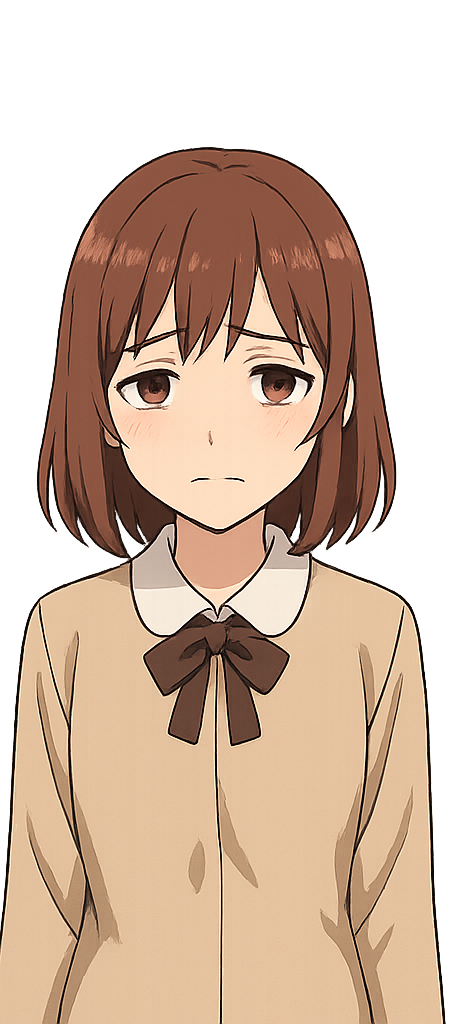
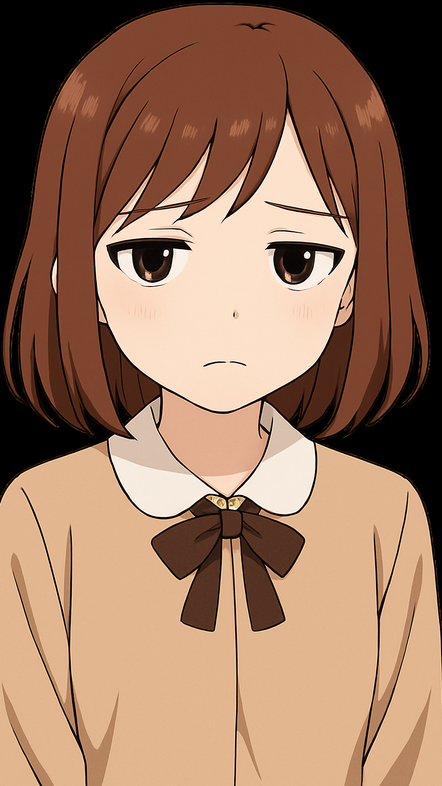
Add files via upload

diff --git a/styles.css b/styles.css
@@ -1,135 +1,134 @@
+/* ==================================================================
+   styles.css
+   ================================================================== */
+
 :root{
-  --bg:#0f1115; --panel:#171a21; --panel2:#1d212a; --text:#e8eef8; --muted:#a7b0c2;
-  --accent:#7aa2ff; --accent2:#ffd166; --good:#6ee7b7; --bad:#f87171;
+  /* 色と寸法 */
+  --bg:#0f1115;
+  --panel:#171a21;
+  --panel2:#1d212a;
+  --text:#e8eef8;
+  --muted:#a7b0c2;
+  --accent:#7aa2ff;
+  --good:#6ee7b7;
+  --bad:#f87171;
+
+  /* 画像（縦横比 442:786 ≒ 0.562）をさらに小さく */
+  --portrait-w: 260px;
+  --portrait-h: 464px; /* 260 / 0.56 ≒ 464 */
+
+  /* 左カラムの 3x3 ボタンの1段あたりの高さ（“縦は低め”のキモ） */
+  --left-btn-h: 52px;
+
+  /* ヘッダ/フッタ高さ（レイアウト計算用） */
+  --topbar-h: 56px;
+  --footer-h: 28px;
+
+  --bubble-enter-ms: 160ms;
+  --bubble-ease: cubic-bezier(.2,.85,.35,1);
 }
-*{box-sizing:border-box}
-html,body{height:100%}
+
+*{ box-sizing:border-box; }
+html,body{ height:100%; }
 body{
-  margin:0; font-family:system-ui, -apple-system, "Segoe UI", Meiryo, sans-serif;
-  color:var(--text); background:linear-gradient(180deg,#0e1016 0%,#0b0d12 100%);
+  margin:0;
+  color:var(--text);
+  background:linear-gradient(180deg,#0e1016 0%,#0b0d12 100%);
+  overflow:hidden; /* ← ページ自体はスクロールしない */
+  font-family:system-ui,-apple-system,"Segoe UI",Meiryo,"Hiragino Kaku Gothic ProN","Noto Sans JP",sans-serif;
 }
+
+/* ヘッダ/フッタ */
 .topbar{
   display:flex; align-items:center; justify-content:space-between;
-  padding:10px 16px; background:var(--panel); border-bottom:1px solid #222835;
+  height:var(--topbar-h); padding:6px 12px;
+  background:var(--panel); border-bottom:1px solid #222835;
 }
-.brand{font-weight:700; letter-spacing:0.5px}
-.status{display:flex; gap:24px; align-items:center}
+.brand{font-weight:700; letter-spacing:.5px}
+.status{display:flex; gap:14px; align-items:center}
 .meter label{font-size:12px; color:var(--muted)}
-.meter .bar{width:240px; height:8px; background:#202633; border-radius:999px; overflow:hidden; margin:4px 0}
+.meter .bar{width:180px; height:8px; background:#202633; border-radius:999px; overflow:hidden; margin:4px 0}
 #affectionBar{height:100%; width:0%; background:linear-gradient(90deg,#5ad1ff,#7aa2ff); transition:width .2s}
 .tier{color:var(--muted)}
-.tension label{font-size:12px; color:var(--muted)}
-.badge{padding:4px 10px; border-radius:999px; font-weight:700;}
+.badge{padding:2px 8px; border-radius:999px; font-weight:700;}
 .badge-low{background:#2a1d2b; color:#ff79a1}
 .badge-mid{background:#1c2430; color:#7aa2ff}
 .badge-high{background:#1c2a22; color:#5ae0a2}
 
-.layout{
-  display:grid; grid-template-columns: 360px 1fr; gap:16px; padding:16px;
+.foot{
+  display:flex; align-items:center; justify-content:center;
+  height:var(--footer-h); padding:0 12px; color:var(--muted);
 }
+
+/* 2カラム: 左(画像+3x3), 右(ログ) — 1画面に収める */
+.layout{
+  display:grid;
+  grid-template-columns:max-content 1fr;
+  gap:14px;
+  padding:12px;
+  height:calc(100vh - var(--topbar-h) - var(--footer-h));
+  min-height:0;
+}
+
+/* 左カラム */
 .portrait{
   background:var(--panel); border:1px solid #222835; border-radius:14px;
-  display:flex; align-items:center; justify-content:center; padding:12px;
+  padding:10px; display:flex; flex-direction:column; align-items:center; gap:8px;
+  height:100%; /* ← 右と同じく縦いっぱいを割り当てる */
+  min-height:0;
 }
-.portrait img{max-width:100%; border-radius:10px; box-shadow:0 12px 40px rgba(0,0,0,.35)}
+.portrait-frame{
+  /* 画像は「最大でも固定サイズ」、残りが足りなければ縮む */
+  width:var(--portrait-w);
+  height:var(--portrait-h);
+  max-height:calc(100% - (var(--left-btn-h) * 3 + 12px) - 8px - 2px - 20px);
+  /*          ↑ボタン3段の高さ  ↑行間  ↑画像とボタンの間隔  ↑枠線  ↑上下padding  */
+  display:flex; align-items:center; justify-content:center; position:relative;
+  border-radius:10px; overflow:hidden;
+}
+.portrait img{
+  width:100%; height:100%;
+  object-fit: contain;   /* ← cover から contain に */
+  background:#0003;      /* 余白が出るときの台色（お好みで） */
+  border-radius:10px; box-shadow:0 12px 40px rgba(0,0,0,.35);
+}
+.size-badge{
+  position:absolute; top:6px; left:6px; padding:2px 8px; font-size:12px; line-height:1.6;
+  color:#e8eef8; background:rgba(0,0,0,.55); border:1px solid #333a; border-radius:999px; pointer-events:none;
+}
 
-.ui{display:flex; flex-direction:column; gap:16px}
-.buttons{
-  display:grid; grid-template-columns:repeat(3,1fr); gap:10px;
+/* 3x3 ボタン（確実に grid にするため !important を付与） */
+.portrait .left-buttons{
+  width:var(--portrait-w);
+  display:grid !important;
+  grid-template-columns:repeat(3, minmax(0,1fr)) !important;
+  grid-auto-rows:var(--left-btn-h);
+  gap:6px;
 }
-.buttons button{
-  padding:14px 10px; border-radius:12px; border:1px solid #23293a;
+.portrait .left-buttons button{
+  padding:6px; border-radius:10px; border:1px solid #23293a;
   background:var(--panel2); color:var(--text); cursor:pointer; font-weight:700;
+  display:flex; align-items:center; justify-content:center; flex-direction:column;
   transition:transform .06s ease, box-shadow .06s ease, background .2s;
 }
-.buttons button:hover{transform:translateY(-1px); box-shadow:0 8px 20px rgba(0,0,0,.25)}
-.buttons button:active{transform:translateY(0)}
+.portrait .left-buttons button:hover{ transform:translateY(-1px); box-shadow:0 8px 20px rgba(0,0,0,.25) }
+.portrait .left-buttons .emoji{ font-size:18px; line-height:1 }
+.portrait .left-buttons .label{ font-size:11px; opacity:.95 }
+
+/* 右カラム（会話ログを縦いっぱい、内部スクロール） */
+.ui{ display:flex; flex-direction:column; height:100%; min-height:0; }
 .dialog{
-  background:var(--panel); border:1px solid #222835; border-radius:14px; padding:12px;
+  background:var(--panel); border:1px solid #222835; border-radius:14px;
+  padding:10px; display:flex; flex-direction:column; gap:8px;
+  flex:1 1 auto; min-height:0;
 }
 .log{
-  height:260px; overflow:auto; padding:8px; background:#0f141c; border-radius:8px; border:1px solid #202636;
-}
-.bubble{padding:8px 10px; margin:8px 0; border-radius:10px; width:max-content; max-width:100%}
-.user{background:#192538; border:1px solid #233650}
-.npc{background:#1a2a1f; border:1px solid #25422e}
-.system{background:#2a2333; border:1px solid #3b2f4b}
-.meta{color:var(--muted); font-size:12px}
-.inputRow{display:flex; justify-content:flex-end; margin-top:8px; gap:8px}
-button.secondary{background:#11161f; border-color:#2a3448; color:#cfd7e7}
-button.danger{background:#2a1616; border-color:#4c2626; color:#ffb4b4}
-
-.debug{background:var(--panel); border:1px solid #222835; border-radius:14px; padding:10px}
-.debug-grid{display:grid; grid-template-columns:repeat(3,1fr); gap:10px}
-.debug .row{display:flex; gap:6px; align-items:center}
-.debug input{width:80px; padding:6px 8px; border-radius:8px; border:1px solid #30384a; background:#0e1420; color:#e8eef8}
-.footer, .foot{padding:8px 16px; color:var(--muted); text-align:center}
-/* 絵文字ボタン */
-.buttons button.iconbtn{
-  display:flex; flex-direction:column; align-items:center; justify-content:center;
-  gap:6px; padding-block:18px; font-weight:700; text-align:center;
-}
-.buttons .emoji{ font-size:28px; line-height:1; }
-.buttons .label{ font-size:14px; opacity:.95; }
-
-/* 画面幅広めなら少し大きく */
-@media (min-width: 720px){
-  .buttons .emoji{ font-size:34px; }
+  flex:1 1 auto; min-height:0; overflow:auto;
+  padding:8px; background:#0f141c; border-radius:8px; border:1px solid #202636;
 }
 
-/* （任意）テキストを隠して絵文字だけにしたい時 */
-.icon-only .buttons .label{ display:none; }
-
-/* ===== Compact Mode (1024x768想定) ===== */
-body.compact { /* 画面が広くても詰めて表示 */
-  max-width: 1024px;
-  margin: 0 auto;
-}
-
-body.compact .topbar{
-  padding:6px 12px;
-}
-body.compact .status{ gap:16px }
-body.compact .meter .bar{ width:180px; height:6px }
-body.compact .badge{ padding:2px 8px; font-size:12px }
-
-body.compact .layout{
-  grid-template-columns: 280px 1fr;
-  gap:12px;
-  padding:12px;
-}
-body.compact .portrait{ padding:8px; border-radius:10px }
-body.compact .portrait img{ border-radius:8px }
-
-body.compact .buttons{
-  gap:8px;
-  grid-template-columns: repeat(3, 1fr);
-}
-body.compact .buttons button{
-  padding:10px 8px;
-  border-radius:10px;
-}
-body.compact .buttons .emoji{ font-size:22px }
-body.compact .buttons .label{ font-size:12px }
-
-body.compact .dialog{ padding:10px; border-radius:10px }
-body.compact .log{
-  height:170px;            /* 260→170に圧縮 */
-  padding:6px;
-}
-body.compact .bubble{ padding:6px 8px; margin:6px 0 }
-body.compact .meta{ font-size:11px }
-
-body.compact .debug{ padding:8px; border-radius:10px }
-body.compact .debug-grid{ gap:8px }
-body.compact .debug input{ width:70px; padding:4px 6px }
-/* 考え中バブルは少し薄く */
-.bubble.thinking{ opacity:.8; font-style:italic }
-
-/* ===== 選択肢 ===== */
-.choices{
-  display:grid; grid-template-columns:1fr 1fr; gap:8px; margin-top:8px;
-}
+/* 選択肢 */
+.choices{ display:grid; grid-template-columns:repeat(2,1fr); gap:8px }
 .choices button{
   padding:10px; border-radius:10px; border:1px solid #233650;
   background:#192538; color:#e8eef8; cursor:pointer; font-weight:700;
@@ -137,5 +136,61 @@ body.compact .debug input{ width:70px; padding:4px 6px }
 }
 .choices button:hover{ transform:translateY(-1px); box-shadow:0 8px 20px rgba(0,0,0,.25) }
 
-/* Compact調整 */
-body.compact .choices button{ padding:8px; font-size:14px }
+/* 吹き出し */
+.bubble{
+  padding:8px 10px; margin:8px 0; border-radius:10px;
+  width:max-content; max-width:100%;
+  /* ふわっと */
+  opacity: 1; /* ← thinkingと分けるため初期値は1にしておく */
+}
+.bubble:not(.thinking){
+  opacity: 0;
+  transform: translateY(6px) scale(.98);
+  animation: bubbleIn var(--bubble-enter-ms) var(--bubble-ease) forwards;
+  will-change: transform, opacity;
+  box-shadow: 0 6px 18px rgba(0,0,0,.22);
+}
+.user{ background:#192538; border:1px solid #233650 }
+.npc{ background:#1a2a1f; border:1px solid #25422e }
+.system{ background:#2a2333; border:1px solid #3b2f4b }
+.meta{
+  color:var(--muted);
+  font-size:12px;
+  margin-top:-6px;
+  opacity:.85;
+  animation: metaIn 180ms var(--bubble-ease) both;
+}
+.bubble.thinking{
+  opacity:.85;
+  font-style:italic;
+  animation: none;
+}
+
+/* 汎用ボタン */
+button{ font:inherit }
+button.secondary{ background:#11161f; border:1px solid #2a3448; color:#cfd7e7; padding:8px 10px; border-radius:10px; cursor:pointer }
+button.danger{ background:#2a1616; border:1px solid #4c2626; color:#ffb4b4; padding:8px 10px; border-radius:10px; cursor:pointer }
+button.secondary:hover, button.danger:hover{ filter:brightness(1.08) }
+
+/* バブルアニメーション */
+@keyframes bubbleIn {
+  from { opacity: 0; transform: translateY(6px) scale(.98); }
+  to   { opacity: 1; transform: translateY(0)   scale(1);   }
+}
+@keyframes metaIn {
+  from { opacity: 0; transform: translateY(2px); }
+  to   { opacity: .85; transform: none; }
+}
+
+/* 会話中（busy）のカテゴリボタン見た目 */
+.left-buttons button:disabled{
+  opacity: .45;
+  filter: grayscale(25%);
+  cursor: not-allowed;
+  transform: none !important;
+  box-shadow: none !important;
+}
+.left-buttons button:disabled .emoji,
+.left-buttons button:disabled .label{
+  opacity: .85;
+}

diff --git a/js/main.js b/js/main.js
@@ -348,6 +348,7 @@ function getPool(typeKey) {
 async function handleTalk(typeKey, label){
   if (state.busy) return;
   state.busy = true;
+  setCategoryButtonsEnabled(false);
   try{
     if (CLEAR_LOG_ON_NEW) $("#log").innerHTML = "";
 
@@ -375,6 +376,7 @@ async function handleTalk(typeKey, label){
     applyEffect(item.effect);
   } finally {
     state.busy = false;
+    setCategoryButtonsEnabled(true);
   }
 }
 
@@ -415,6 +417,13 @@ function bindDebug() {
   $("#clearLog").addEventListener("click", () => $("#log").innerHTML = "");
   $("#resetState").addEventListener("click", () => {
     state.affection = 0; state.tension = "mid"; persist(); updateStatusUI();
+  });
+}
+
+function setCategoryButtonsEnabled(enabled){
+  document.querySelectorAll('#buttons button').forEach(b=>{
+    b.disabled = !enabled;
+    b.setAttribute('aria-disabled', String(!enabled));
   });
 }
 

diff --git a/index.html b/index.html
@@ -28,12 +28,16 @@
 
     <main class="layout">
         <section class="portrait">
-            <img id="portrait" src="assets/girl_mid.png" alt="girl" />
+            <div class="portrait-frame">
+                <div class="size-badge">442×786</div>
+                <img id="portrait" src="assets/girl_mid.png" alt="girl" />
+            </div>
+
+            <div class="left-buttons" id="buttons"></div>
         </section>
 
-        <section class="ui">
-            <div class="buttons" id="buttons"></div>
 
+        <section class="ui">
             <div class="dialog">
                 <div id="log" class="log"></div>
 
